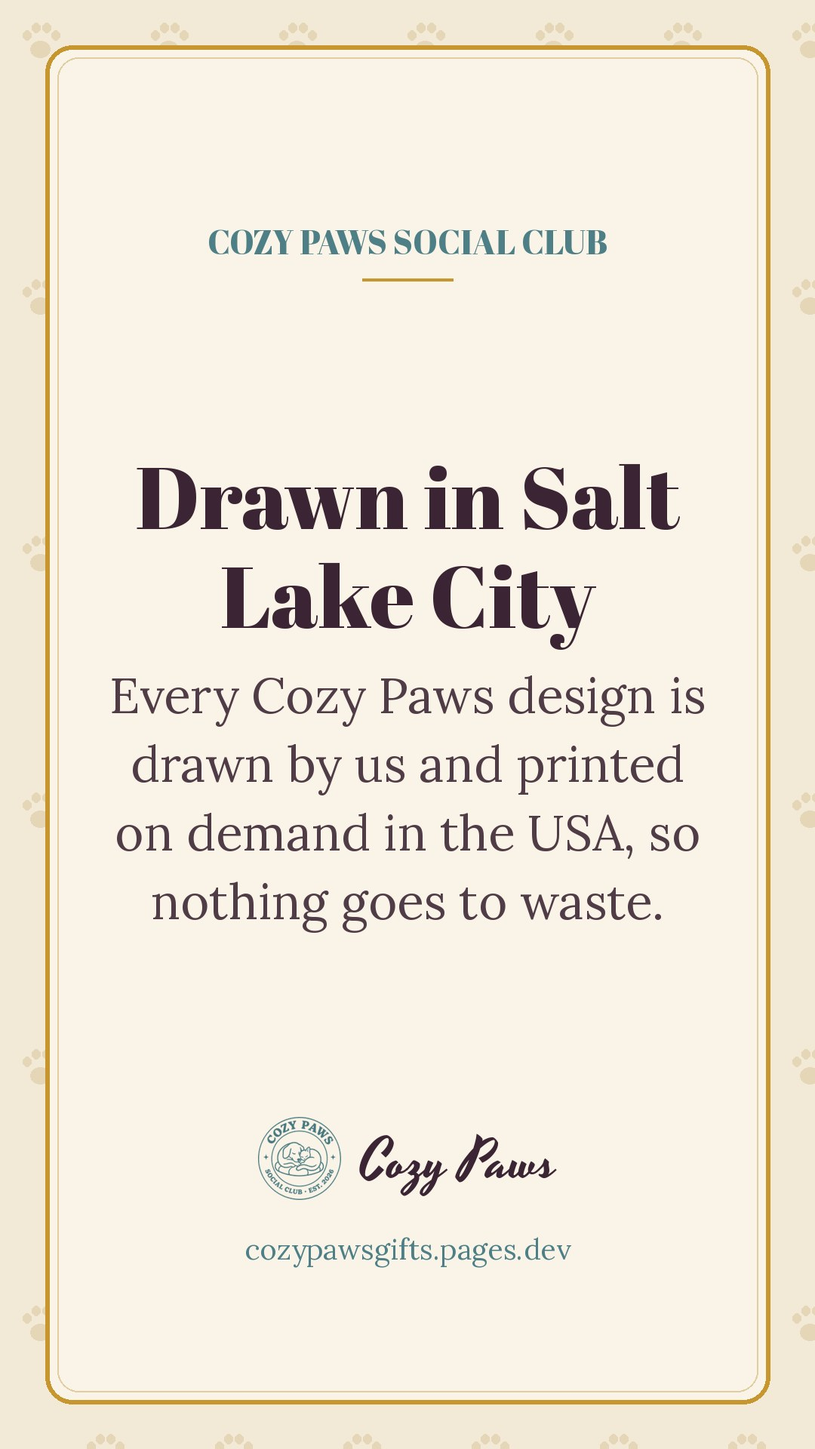
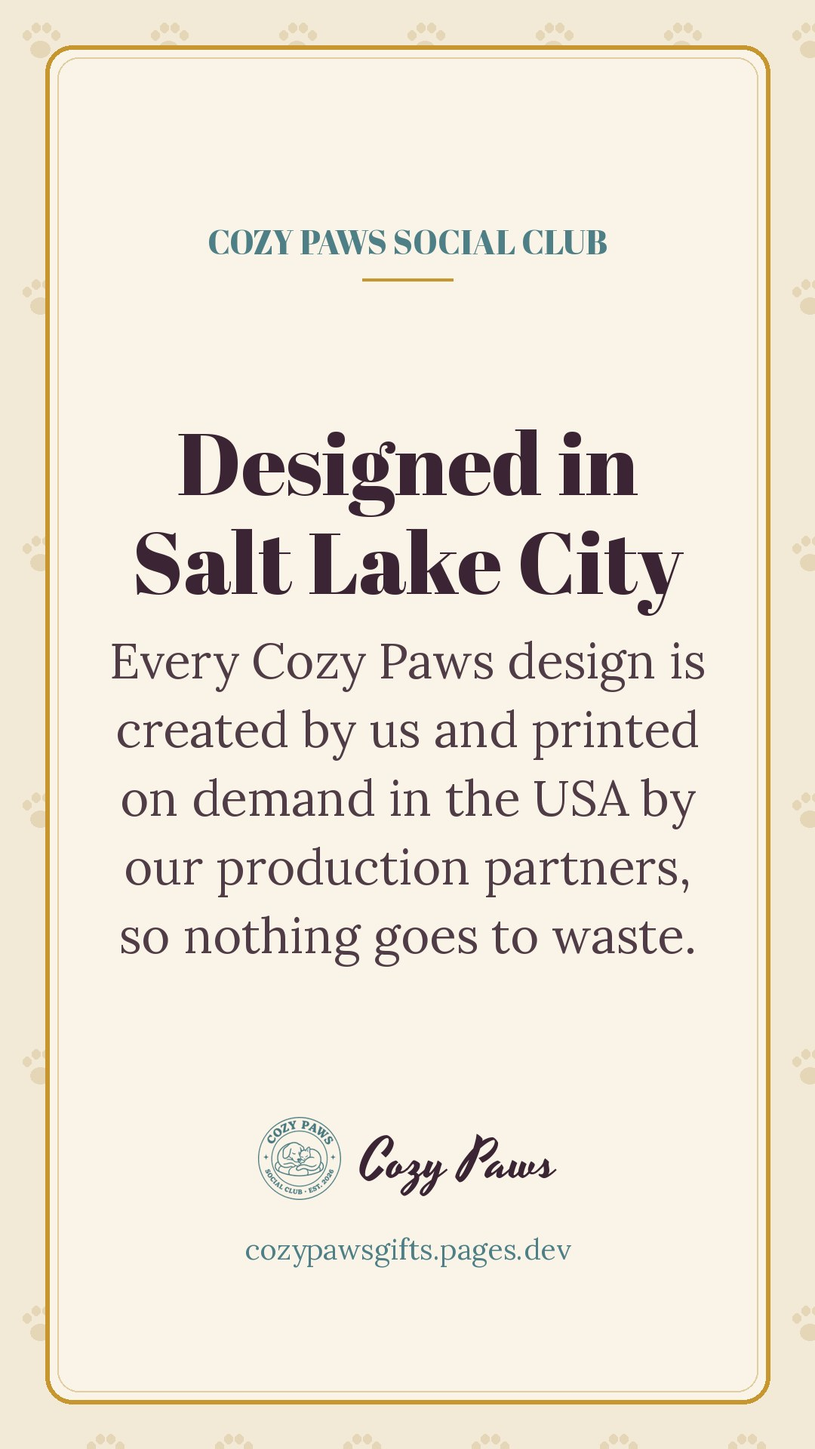
Cozy Paws: textos honestos (diseñado en Salt Lake City, impreso a pedido por socios de producción), sin 'drawn/by hand'
Claude-Session: https://claude.ai/code/session_016faVtCoSW77doGsyJeg2V5

Changed region(s): [[0.1222, 0.2812, 0.8556, 0.6875]]

diff --git a/cozypaws/site/index.html b/cozypaws/site/index.html
@@ -75,7 +75,7 @@ document.addEventListener('click',function(e){var a=e.target.closest&&e.target.c
 <div class="bar">✦ Order by Dec 10 for Christmas delivery in the US (26 days left) ✦</div>
 <header><div class="in"><a class="brand" href="/"><img src="/img/logo-160.png" alt="" width="58" height="58"><span>Cozy Paws</span></a>
 <nav><a href="/gifts/">Gift guides</a><a href="/tools/">Pet tools</a><a href="/about/">About</a><a class="shop" href="https://www.etsy.com/shop/ShopCozyPaws" data-etsy="shop">Shop on Etsy</a></nav></div></header>
-<main><section class="hero"><div><span class="script">Cozy Paws</span><p class="tag">Vintage club gifts for dogs, cats &amp; the people who love them</p><p>Mugs, ornaments, cozy sweatshirts, blankets and goodies for the pets themselves. Original designs drawn in Salt Lake City and printed on demand in the USA.</p><a class="btn" href="https://www.etsy.com/shop/ShopCozyPaws" data-etsy="hero">Shop on Etsy</a><a class="btn ghost" href="/gifts/">Gift guides</a></div><img src="/img/logo-ilustrado.png" alt="Cozy Paws Social Club logo: a sleeping dog and cat" width="340" height="340"></section><h2>New in the shop</h2><div class="grid"><a class="card" href="/p/cat-mom-mug-p09/"><img src="/img/p/p09.jpg" alt="Cat Mom Mug" loading="lazy" width="450" height="450"><div class="t">Cat Mom Mug</div><div class="m"><span>Coffee mug</span><span class="price">$20</span></div></a><a class="card" href="/p/labrador-dog-mom-mug-p04/"><img src="/img/p/p04.jpg" alt="Labrador Dog Mom Mug" loading="lazy" width="450" height="450"><div class="t">Labrador Dog Mom Mug</div><div class="m"><span>Coffee mug</span><span class="price">$20</span></div></a><a class="card" href="/p/golden-retriever-dog-mom-mug-p03/"><img src="/img/p/p03.jpg" alt="Golden Retriever Dog Mom Mug" loading="lazy" width="450" height="450"><div class="t">Golden Retriever Dog Mom Mug</div><div class="m"><span>Coffee mug</span><span class="price">$20</span></div></a><a class="card" href="/p/cat-mom-christmas-ornament-p02/"><img src="/img/p/p02.jpg" alt="Cat Mom Christmas Ornament" loading="lazy" width="450" height="450"><div class="t">Cat Mom Christmas Ornament</div><div class="m"><span>Ceramic ornament</span><span class="price">$18</span></div></a><a class="card" href="/p/dog-mom-christmas-ornament-2026-p01/"><img src="/img/p/p01.jpg" alt="Dog Mom Christmas Ornament 2026" loading="lazy" width="450" height="450"><div class="t">Dog Mom Christmas Ornament 2026</div><div class="m"><span>Ceramic ornament</span><span class="price">$18</span></div></a></div><h2>Sneak peek: dropping soon</h2><p>Five new gifts a day, starting November 15.</p><div class="grid"><div class="card"><img src="/img/p/p05.jpg" alt="Frenchie Dog Mom Mug" loading="lazy" width="450" height="450"><span class="badge">Nov 15</span><div class="t">Frenchie Dog Mom Mug</div><div class="m"><span>Coffee mug</span><span class="price">$20</span></div></div><div class="card"><img src="/img/p/p06.jpg" alt="German Shepherd Dog Mom Mug" loading="lazy" width="450" height="450"><span class="badge">Nov 15</span><div class="t">German Shepherd Dog Mom Mug</div><div class="m"><span>Coffee mug</span><span class="price">$20</span></div></div><div class="card"><img src="/img/p/p11.jpg" alt="Merry Woofmas Sweatshirt" loading="lazy" width="450" height="450"><span class="badge">Nov 15</span><div class="t">Merry Woofmas Sweatshirt</div><div class="m"><span>Sweatshirt</span><span class="price">$42</span></div></div><div class="card"><img src="/img/p/p12.jpg" alt="Nice List Dog Bandana" loading="lazy" width="450" height="450"><span class="badge">Nov 15</span><div class="t">Nice List Dog Bandana</div><div class="m"><span>Dog bandana</span><span class="price">$18</span></div></div><div class="card"><img src="/img/p/p13.jpg" alt="Santa&#x27;s Favorite Good Boy Dog Hoodie" loading="lazy" width="450" height="450"><span class="badge">Nov 15</span><div class="t">Santa&#x27;s Favorite Good Boy Dog Hoodie</div><div class="m"><span>Dog sweater</span><span class="price">$32</span></div></div><div class="card"><img src="/img/p/i06.jpg" alt="Christmas Pets Coloring Pages" loading="lazy" width="450" height="450"><span class="badge">Nov 16</span><div class="t">Christmas Pets Coloring Pages</div><div class="m"><span>Printable (instant download)</span><span class="price">$4.99</span></div></div><div class="card"><img src="/img/p/o01.jpg" alt="Puppy&#x27;s First Christmas Ornament 2026" loading="lazy" width="450" height="450"><span class="badge">Nov 16</span><div class="t">Puppy&#x27;s First Christmas Ornament 2026</div><div class="m"><span>Wooden ornament</span><span class="price">$18</span></div></div><div class="card"><img src="/img/p/p07.jpg" alt="Dachshund Dog Mom Mug" loading="lazy" width="450" height="450"><span class="badge">Nov 16</span><div class="t">Dachshund Dog Mom Mug</div><div class="m"><span>Coffee mug</span><span class="price">$20</span></div></div></div><h2>Gift guides</h2><div class="stamps"><a class="stamp" href="/gifts/dog-mom-gifts/"><img src="/img/p/p04.jpg" alt="" loading="lazy" width="78" height="78"><span><b>Gifts for Dog Moms</b><small>3 gift ideas</small></span></a></div><h2>Free pet tools</h2><div class="tools"><a class="tool" href="/tools/dog-age-calculator/"><b>Dog Age Calculator</b><span>Convert your dog&#x27;s age to human years by size, with the classic vet chart and the newer DNA-based formula.</span></a></div><section class="maker"><img src="/img/logo-ilustrado.png" alt="Azu, the maker behind Cozy Paws" loading="lazy" width="200" height="200"><div><span class="script" style="font-size:44px">Meet the maker</span><p>Hi, I'm Azu. I design every Cozy Paws gift in Salt Lake City, surrounded by mountains, trail dogs and very spoiled couch potatoes. This is a one-person shop: each gift is made to order and I answer every message myself.</p><p><a href="/about/">Read our story →</a></p></div></section><section class="club"><img src="/img/sello-claro.png" alt="" width="150" height="150" loading="lazy"><div><span class="script">Join the club</span><p>Every design is made for people who let the dog on the couch and the cat on the keyboard. New gifts drop all season long.</p><p style="margin-top:14px"><a class="btn" style="background:var(--gold);box-shadow:0 4px 0 #8f6a1f" href="https://www.etsy.com/shop/ShopCozyPaws" data-etsy="club">Visit the shop</a></p></div></section></main>
+<main><section class="hero"><div><span class="script">Cozy Paws</span><p class="tag">Vintage club gifts for dogs, cats &amp; the people who love them</p><p>Mugs, ornaments, cozy sweatshirts, blankets and goodies for the pets themselves. Original designs from Salt Lake City, printed on demand in the USA by our production partners.</p><a class="btn" href="https://www.etsy.com/shop/ShopCozyPaws" data-etsy="hero">Shop on Etsy</a><a class="btn ghost" href="/gifts/">Gift guides</a></div><img src="/img/logo-ilustrado.png" alt="Cozy Paws Social Club logo: a sleeping dog and cat" width="340" height="340"></section><h2>New in the shop</h2><div class="grid"><a class="card" href="/p/cat-mom-mug-p09/"><img src="/img/p/p09.jpg" alt="Cat Mom Mug" loading="lazy" width="450" height="450"><div class="t">Cat Mom Mug</div><div class="m"><span>Coffee mug</span><span class="price">$20</span></div></a><a class="card" href="/p/labrador-dog-mom-mug-p04/"><img src="/img/p/p04.jpg" alt="Labrador Dog Mom Mug" loading="lazy" width="450" height="450"><div class="t">Labrador Dog Mom Mug</div><div class="m"><span>Coffee mug</span><span class="price">$20</span></div></a><a class="card" href="/p/golden-retriever-dog-mom-mug-p03/"><img src="/img/p/p03.jpg" alt="Golden Retriever Dog Mom Mug" loading="lazy" width="450" height="450"><div class="t">Golden Retriever Dog Mom Mug</div><div class="m"><span>Coffee mug</span><span class="price">$20</span></div></a><a class="card" href="/p/cat-mom-christmas-ornament-p02/"><img src="/img/p/p02.jpg" alt="Cat Mom Christmas Ornament" loading="lazy" width="450" height="450"><div class="t">Cat Mom Christmas Ornament</div><div class="m"><span>Ceramic ornament</span><span class="price">$18</span></div></a><a class="card" href="/p/dog-mom-christmas-ornament-2026-p01/"><img src="/img/p/p01.jpg" alt="Dog Mom Christmas Ornament 2026" loading="lazy" width="450" height="450"><div class="t">Dog Mom Christmas Ornament 2026</div><div class="m"><span>Ceramic ornament</span><span class="price">$18</span></div></a></div><h2>Sneak peek: dropping soon</h2><p>Five new gifts a day, starting November 15.</p><div class="grid"><div class="card"><img src="/img/p/p05.jpg" alt="Frenchie Dog Mom Mug" loading="lazy" width="450" height="450"><span class="badge">Nov 15</span><div class="t">Frenchie Dog Mom Mug</div><div class="m"><span>Coffee mug</span><span class="price">$20</span></div></div><div class="card"><img src="/img/p/p06.jpg" alt="German Shepherd Dog Mom Mug" loading="lazy" width="450" height="450"><span class="badge">Nov 15</span><div class="t">German Shepherd Dog Mom Mug</div><div class="m"><span>Coffee mug</span><span class="price">$20</span></div></div><div class="card"><img src="/img/p/p11.jpg" alt="Merry Woofmas Sweatshirt" loading="lazy" width="450" height="450"><span class="badge">Nov 15</span><div class="t">Merry Woofmas Sweatshirt</div><div class="m"><span>Sweatshirt</span><span class="price">$42</span></div></div><div class="card"><img src="/img/p/p12.jpg" alt="Nice List Dog Bandana" loading="lazy" width="450" height="450"><span class="badge">Nov 15</span><div class="t">Nice List Dog Bandana</div><div class="m"><span>Dog bandana</span><span class="price">$18</span></div></div><div class="card"><img src="/img/p/p13.jpg" alt="Santa&#x27;s Favorite Good Boy Dog Hoodie" loading="lazy" width="450" height="450"><span class="badge">Nov 15</span><div class="t">Santa&#x27;s Favorite Good Boy Dog Hoodie</div><div class="m"><span>Dog sweater</span><span class="price">$32</span></div></div><div class="card"><img src="/img/p/i06.jpg" alt="Christmas Pets Coloring Pages" loading="lazy" width="450" height="450"><span class="badge">Nov 16</span><div class="t">Christmas Pets Coloring Pages</div><div class="m"><span>Printable (instant download)</span><span class="price">$4.99</span></div></div><div class="card"><img src="/img/p/o01.jpg" alt="Puppy&#x27;s First Christmas Ornament 2026" loading="lazy" width="450" height="450"><span class="badge">Nov 16</span><div class="t">Puppy&#x27;s First Christmas Ornament 2026</div><div class="m"><span>Wooden ornament</span><span class="price">$18</span></div></div><div class="card"><img src="/img/p/p07.jpg" alt="Dachshund Dog Mom Mug" loading="lazy" width="450" height="450"><span class="badge">Nov 16</span><div class="t">Dachshund Dog Mom Mug</div><div class="m"><span>Coffee mug</span><span class="price">$20</span></div></div></div><h2>Gift guides</h2><div class="stamps"><a class="stamp" href="/gifts/dog-mom-gifts/"><img src="/img/p/p04.jpg" alt="" loading="lazy" width="78" height="78"><span><b>Gifts for Dog Moms</b><small>3 gift ideas</small></span></a></div><h2>Free pet tools</h2><div class="tools"><a class="tool" href="/tools/dog-age-calculator/"><b>Dog Age Calculator</b><span>Convert your dog&#x27;s age to human years by size, with the classic vet chart and the newer DNA-based formula.</span></a></div><section class="maker"><img src="/img/logo-ilustrado.png" alt="Azu, the maker behind Cozy Paws" loading="lazy" width="200" height="200"><div><span class="script" style="font-size:44px">Meet the maker</span><p>Hi, I'm Azu. I design every Cozy Paws gift in Salt Lake City, surrounded by mountains, trail dogs and very spoiled couch potatoes. This is a one-person shop: each gift is made to order and I answer every message myself.</p><p><a href="/about/">Read our story →</a></p></div></section><section class="club"><img src="/img/sello-claro.png" alt="" width="150" height="150" loading="lazy"><div><span class="script">Join the club</span><p>Every design is made for people who let the dog on the couch and the cat on the keyboard. New gifts drop all season long.</p><p style="margin-top:14px"><a class="btn" style="background:var(--gold);box-shadow:0 4px 0 #8f6a1f" href="https://www.etsy.com/shop/ShopCozyPaws" data-etsy="club">Visit the shop</a></p></div></section></main>
 <footer><div class="in"><div class="fb"><img src="/img/sello-claro.png" alt="" width="64" height="64" loading="lazy"><div><span class="script">Cozy Paws</span><br>Vintage club gifts for dogs, cats &amp; the people who love them. Designed in Salt Lake City, Utah.</div></div>
 <div class="links"><a href="https://www.etsy.com/shop/ShopCozyPaws" data-etsy="footer">Etsy shop</a><a href="https://www.pinterest.com/cozypawsgifts/" rel="me">Pinterest</a><a href="https://www.instagram.com/cozypawsgifts/" rel="me">Instagram</a><a href="https://www.facebook.com/profile.php?id=61596427566616" rel="me">Facebook</a><br>
 <a href="/about/">About</a><a href="/shipping-returns/">Shipping &amp; returns</a><a href="/faq/">FAQ</a><a href="/contact/">Contact</a><a href="/privacy/">Privacy</a><a href="/terms/">Terms</a><br><small>© 2026 Cozy Paws</small></div></div></footer>

diff --git a/cozypaws/site/gifts/christmas-gift-guide-dog-owners/index.html b/cozypaws/site/gifts/christmas-gift-guide-dog-owners/index.html
@@ -75,7 +75,7 @@ document.addEventListener('click',function(e){var a=e.target.closest&&e.target.c
 <div class="bar">✦ Order by Dec 10 for Christmas delivery in the US (26 days left) ✦</div>
 <header><div class="in"><a class="brand" href="/"><img src="/img/logo-160.png" alt="" width="58" height="58"><span>Cozy Paws</span></a>
 <nav><a href="/gifts/">Gift guides</a><a href="/tools/">Pet tools</a><a href="/about/">About</a><a class="shop" href="https://www.etsy.com/shop/ShopCozyPaws" data-etsy="shop">Shop on Etsy</a></nav></div></header>
-<main><p class="note"><a href="/">Home</a> › <a href="/gifts/">Gift guides</a> › Christmas gift guide for dog owners</p><h1>Christmas Gift Guide for Dog Owners (2026)</h1><p class="lead">Shopping for someone whose dog gets their own stocking? This guide sorts our holiday gifts by the kind of dog person you are shopping for: the proud dog mom, the outdoorsy dog dad, the brand new puppy parent, the breed superfan and the friend who just said goodbye to a good dog. Every design is original, drawn in Salt Lake City and printed on demand in the USA, and new gifts are added every day until Christmas.</p><div class="ship"><b>Shipping:</b> order physical gifts by December 10 for Christmas delivery in the US (26 days left). Printables download instantly, even on Christmas Eve.</div><nav class="toc" aria-label="Jump to"><b>Jump to:</b><br><a href="#dog-mom">For the dog mom</a><a href="#breeds">By breed</a><a href="#stocking">Stocking stuffers under $20</a><a href="#faq">Questions</a></nav><h2 id="dog-mom">For the dog mom</h2><p>She talks about her dog the way other people talk about their kids. Mugs for the first coffee of the day, a dated ornament, a soft sweatshirt for the 6 AM walk and a blanket for the couch the dog took over.</p><div class="grid"><a class="card" href="/p/labrador-dog-mom-mug-p04/"><img src="/img/p/p04.jpg" alt="Labrador Dog Mom Mug" loading="lazy" width="450" height="450"><div class="t">Labrador Dog Mom Mug</div><div class="m"><span>Coffee mug</span><span class="price">$20</span></div></a><a class="card" href="/p/golden-retriever-dog-mom-mug-p03/"><img src="/img/p/p03.jpg" alt="Golden Retriever Dog Mom Mug" loading="lazy" width="450" height="450"><div class="t">Golden Retriever Dog Mom Mug</div><div class="m"><span>Coffee mug</span><span class="price">$20</span></div></a><a class="card" href="/p/dog-mom-christmas-ornament-2026-p01/"><img src="/img/p/p01.jpg" alt="Dog Mom Christmas Ornament 2026" loading="lazy" width="450" height="450"><div class="t">Dog Mom Christmas Ornament 2026</div><div class="m"><span>Ceramic ornament</span><span class="price">$18</span></div></a></div><p class="more pills"><a href="/gifts/dog-mom-gifts/">See all: Gifts for Dog Moms →</a></p><h2 id="breeds">By breed</h2><p>Breed people are a club of their own. Golden, Lab, Frenchie, German Shepherd, Dachshund or Doodle: a gift with their breed on it says you pay attention.</p><div class="grid"><a class="card" href="/p/labrador-dog-mom-mug-p04/"><img src="/img/p/p04.jpg" alt="Labrador Dog Mom Mug" loading="lazy" width="450" height="450"><div class="t">Labrador Dog Mom Mug</div><div class="m"><span>Coffee mug</span><span class="price">$20</span></div></a><a class="card" href="/p/golden-retriever-dog-mom-mug-p03/"><img src="/img/p/p03.jpg" alt="Golden Retriever Dog Mom Mug" loading="lazy" width="450" height="450"><div class="t">Golden Retriever Dog Mom Mug</div><div class="m"><span>Coffee mug</span><span class="price">$20</span></div></a></div><h2 id="stocking">Stocking stuffers under $20</h2><p>Small gifts with big dog energy: ornaments, socks, stickers, cards and gift tags.</p><div class="grid"><a class="card" href="/p/labrador-dog-mom-mug-p04/"><img src="/img/p/p04.jpg" alt="Labrador Dog Mom Mug" loading="lazy" width="450" height="450"><div class="t">Labrador Dog Mom Mug</div><div class="m"><span>Coffee mug</span><span class="price">$20</span></div></a><a class="card" href="/p/golden-retriever-dog-mom-mug-p03/"><img src="/img/p/p03.jpg" alt="Golden Retriever Dog Mom Mug" loading="lazy" width="450" height="450"><div class="t">Golden Retriever Dog Mom Mug</div><div class="m"><span>Coffee mug</span><span class="price">$20</span></div></a><a class="card" href="/p/dog-mom-christmas-ornament-2026-p01/"><img src="/img/p/p01.jpg" alt="Dog Mom Christmas Ornament 2026" loading="lazy" width="450" height="450"><div class="t">Dog Mom Christmas Ornament 2026</div><div class="m"><span>Ceramic ornament</span><span class="price">$18</span></div></a></div><p style="margin-top:34px"><a class="btn" href="https://www.etsy.com/shop/ShopCozyPaws" data-etsy="hub">See every gift on Etsy</a></p><h2 id="faq">Questions dog people ask</h2><div class="faq"><details><summary>What is a good Christmas gift for a dog owner?</summary><p>Pick something tied to their dog: a mug or ornament with their breed, a sweatshirt that says dog mom or dog dad, or a gift for the dog itself like a holiday bandana or a pet blanket. Personal beats expensive.</p></details><details><summary>What do you get a dog mom who has everything?</summary><p>A dated keepsake ornament, a cozy plush blanket or a funny sweatshirt. They are things she would not buy for herself, and the ornament comes back every December.</p></details><details><summary>What is a good gift for someone with a new puppy?</summary><p>A Puppy&#x27;s First Christmas ornament with the year on it, plus something practical for the puppy like a bowl or a warm hoodie.</p></details><details><summary>What can I give a friend whose dog passed away?</summary><p>A memorial ornament is a gentle, lasting gift. Add a short handwritten note with a memory of their dog.</p></details><details><summary>When should I order to get it before Christmas?</summary><p>Physical gifts are printed on demand in the USA: order by December 10 for Christmas delivery in the US. Printables download instantly, so they work up to Christmas Eve.</p></details><details><summary>Where do I buy these gifts?</summary><p>Every gift is sold in the Cozy Paws shop on Etsy, with Etsy&#x27;s secure checkout and purchase protection. The links on this page take you straight to each listing.</p></details></div><h2>More gift guides</h2><div class="pills"><a href="/gifts/dog-mom-gifts/">Gifts for Dog Moms</a></div></main>
+<main><p class="note"><a href="/">Home</a> › <a href="/gifts/">Gift guides</a> › Christmas gift guide for dog owners</p><h1>Christmas Gift Guide for Dog Owners (2026)</h1><p class="lead">Shopping for someone whose dog gets their own stocking? This guide sorts our holiday gifts by the kind of dog person you are shopping for: the proud dog mom, the outdoorsy dog dad, the brand new puppy parent, the breed superfan and the friend who just said goodbye to a good dog. Every design is original, designed in Salt Lake City and printed on demand in the USA by our production partners, and new gifts are added every day until Christmas.</p><div class="ship"><b>Shipping:</b> order physical gifts by December 10 for Christmas delivery in the US (26 days left). Printables download instantly, even on Christmas Eve.</div><nav class="toc" aria-label="Jump to"><b>Jump to:</b><br><a href="#dog-mom">For the dog mom</a><a href="#breeds">By breed</a><a href="#stocking">Stocking stuffers under $20</a><a href="#faq">Questions</a></nav><h2 id="dog-mom">For the dog mom</h2><p>She talks about her dog the way other people talk about their kids. Mugs for the first coffee of the day, a dated ornament, a soft sweatshirt for the 6 AM walk and a blanket for the couch the dog took over.</p><div class="grid"><a class="card" href="/p/labrador-dog-mom-mug-p04/"><img src="/img/p/p04.jpg" alt="Labrador Dog Mom Mug" loading="lazy" width="450" height="450"><div class="t">Labrador Dog Mom Mug</div><div class="m"><span>Coffee mug</span><span class="price">$20</span></div></a><a class="card" href="/p/golden-retriever-dog-mom-mug-p03/"><img src="/img/p/p03.jpg" alt="Golden Retriever Dog Mom Mug" loading="lazy" width="450" height="450"><div class="t">Golden Retriever Dog Mom Mug</div><div class="m"><span>Coffee mug</span><span class="price">$20</span></div></a><a class="card" href="/p/dog-mom-christmas-ornament-2026-p01/"><img src="/img/p/p01.jpg" alt="Dog Mom Christmas Ornament 2026" loading="lazy" width="450" height="450"><div class="t">Dog Mom Christmas Ornament 2026</div><div class="m"><span>Ceramic ornament</span><span class="price">$18</span></div></a></div><p class="more pills"><a href="/gifts/dog-mom-gifts/">See all: Gifts for Dog Moms →</a></p><h2 id="breeds">By breed</h2><p>Breed people are a club of their own. Golden, Lab, Frenchie, German Shepherd, Dachshund or Doodle: a gift with their breed on it says you pay attention.</p><div class="grid"><a class="card" href="/p/labrador-dog-mom-mug-p04/"><img src="/img/p/p04.jpg" alt="Labrador Dog Mom Mug" loading="lazy" width="450" height="450"><div class="t">Labrador Dog Mom Mug</div><div class="m"><span>Coffee mug</span><span class="price">$20</span></div></a><a class="card" href="/p/golden-retriever-dog-mom-mug-p03/"><img src="/img/p/p03.jpg" alt="Golden Retriever Dog Mom Mug" loading="lazy" width="450" height="450"><div class="t">Golden Retriever Dog Mom Mug</div><div class="m"><span>Coffee mug</span><span class="price">$20</span></div></a></div><h2 id="stocking">Stocking stuffers under $20</h2><p>Small gifts with big dog energy: ornaments, socks, stickers, cards and gift tags.</p><div class="grid"><a class="card" href="/p/labrador-dog-mom-mug-p04/"><img src="/img/p/p04.jpg" alt="Labrador Dog Mom Mug" loading="lazy" width="450" height="450"><div class="t">Labrador Dog Mom Mug</div><div class="m"><span>Coffee mug</span><span class="price">$20</span></div></a><a class="card" href="/p/golden-retriever-dog-mom-mug-p03/"><img src="/img/p/p03.jpg" alt="Golden Retriever Dog Mom Mug" loading="lazy" width="450" height="450"><div class="t">Golden Retriever Dog Mom Mug</div><div class="m"><span>Coffee mug</span><span class="price">$20</span></div></a><a class="card" href="/p/dog-mom-christmas-ornament-2026-p01/"><img src="/img/p/p01.jpg" alt="Dog Mom Christmas Ornament 2026" loading="lazy" width="450" height="450"><div class="t">Dog Mom Christmas Ornament 2026</div><div class="m"><span>Ceramic ornament</span><span class="price">$18</span></div></a></div><p style="margin-top:34px"><a class="btn" href="https://www.etsy.com/shop/ShopCozyPaws" data-etsy="hub">See every gift on Etsy</a></p><h2 id="faq">Questions dog people ask</h2><div class="faq"><details><summary>What is a good Christmas gift for a dog owner?</summary><p>Pick something tied to their dog: a mug or ornament with their breed, a sweatshirt that says dog mom or dog dad, or a gift for the dog itself like a holiday bandana or a pet blanket. Personal beats expensive.</p></details><details><summary>What do you get a dog mom who has everything?</summary><p>A dated keepsake ornament, a cozy plush blanket or a funny sweatshirt. They are things she would not buy for herself, and the ornament comes back every December.</p></details><details><summary>What is a good gift for someone with a new puppy?</summary><p>A Puppy&#x27;s First Christmas ornament with the year on it, plus something practical for the puppy like a bowl or a warm hoodie.</p></details><details><summary>What can I give a friend whose dog passed away?</summary><p>A memorial ornament is a gentle, lasting gift. Add a short handwritten note with a memory of their dog.</p></details><details><summary>When should I order to get it before Christmas?</summary><p>Physical gifts are printed on demand in the USA: order by December 10 for Christmas delivery in the US. Printables download instantly, so they work up to Christmas Eve.</p></details><details><summary>Where do I buy these gifts?</summary><p>Every gift is sold in the Cozy Paws shop on Etsy, with Etsy&#x27;s secure checkout and purchase protection. The links on this page take you straight to each listing.</p></details></div><h2>More gift guides</h2><div class="pills"><a href="/gifts/dog-mom-gifts/">Gifts for Dog Moms</a></div></main>
 <footer><div class="in"><div class="fb"><img src="/img/sello-claro.png" alt="" width="64" height="64" loading="lazy"><div><span class="script">Cozy Paws</span><br>Vintage club gifts for dogs, cats &amp; the people who love them. Designed in Salt Lake City, Utah.</div></div>
 <div class="links"><a href="https://www.etsy.com/shop/ShopCozyPaws" data-etsy="footer">Etsy shop</a><a href="https://www.pinterest.com/cozypawsgifts/" rel="me">Pinterest</a><a href="https://www.instagram.com/cozypawsgifts/" rel="me">Instagram</a><a href="https://www.facebook.com/profile.php?id=61596427566616" rel="me">Facebook</a><br>
 <a href="/about/">About</a><a href="/shipping-returns/">Shipping &amp; returns</a><a href="/faq/">FAQ</a><a href="/contact/">Contact</a><a href="/privacy/">Privacy</a><a href="/terms/">Terms</a><br><small>© 2026 Cozy Paws</small></div></div></footer>

diff --git a/cozypaws/site/about/index.html b/cozypaws/site/about/index.html
@@ -75,7 +75,7 @@ document.addEventListener('click',function(e){var a=e.target.closest&&e.target.c
 <div class="bar">✦ Order by Dec 10 for Christmas delivery in the US (26 days left) ✦</div>
 <header><div class="in"><a class="brand" href="/"><img src="/img/logo-160.png" alt="" width="58" height="58"><span>Cozy Paws</span></a>
 <nav><a href="/gifts/">Gift guides</a><a href="/tools/">Pet tools</a><a href="/about/">About</a><a class="shop" href="https://www.etsy.com/shop/ShopCozyPaws" data-etsy="shop">Shop on Etsy</a></nav></div></header>
-<main><p class="note"><a href="/">Home</a> › About</p><div class="about"><div><h1>Hi, I'm Azu</h1><p class="lead">I started Cozy Paws for people like me: the ones who plan weekends around the dog, take more photos of the cat than of themselves, and think a pet is family, full stop.</p><p>I live in Salt Lake City, Utah, where the mountains are ten minutes away and every trailhead is full of happy dogs. Cozy Paws mixes two things I love: the charm of old social clubs and vintage naturalist guides, and the very real, very silly life we share with our pets. That is where designs like the Dog Mom Club and Merry Woofmas come from.</p><p>Every design is made for this shop and printed on demand in the USA, so nothing is mass produced and nothing goes to waste. I pick every product, check every mockup and answer every message myself.</p><p><a class="btn" href="https://www.etsy.com/shop/ShopCozyPaws" data-etsy="about">Visit the shop</a><a class="btn ghost" href="/contact/">Say hi</a></p></div><div class="ph"><img src="/img/logo-ilustrado.png" alt="Azu, the maker behind Cozy Paws" width="520" height="520"></div></div><h2>What we care about</h2><div class="vals"><div><b>Original designs</b>Every design is created for Cozy Paws and checked by hand. Nothing is copied from other shops.</div><div><b>Made to order</b>Nothing sits in a warehouse. Each piece is printed when you order it, which means less waste.</div><div><b>Printed in the USA</b>Our production partners print and ship from the US, so gifts arrive in days, not weeks.</div><div><b>A real person</b>Cozy Paws is a one-person shop. When you write to us, the maker answers.</div></div><h2>New in the shop</h2><div class="grid"><a class="card" href="/p/cat-mom-mug-p09/"><img src="/img/p/p09.jpg" alt="Cat Mom Mug" loading="lazy" width="450" height="450"><div class="t">Cat Mom Mug</div><div class="m"><span>Coffee mug</span><span class="price">$20</span></div></a><a class="card" href="/p/labrador-dog-mom-mug-p04/"><img src="/img/p/p04.jpg" alt="Labrador Dog Mom Mug" loading="lazy" width="450" height="450"><div class="t">Labrador Dog Mom Mug</div><div class="m"><span>Coffee mug</span><span class="price">$20</span></div></a><a class="card" href="/p/golden-retriever-dog-mom-mug-p03/"><img src="/img/p/p03.jpg" alt="Golden Retriever Dog Mom Mug" loading="lazy" width="450" height="450"><div class="t">Golden Retriever Dog Mom Mug</div><div class="m"><span>Coffee mug</span><span class="price">$20</span></div></a><a class="card" href="/p/cat-mom-christmas-ornament-p02/"><img src="/img/p/p02.jpg" alt="Cat Mom Christmas Ornament" loading="lazy" width="450" height="450"><div class="t">Cat Mom Christmas Ornament</div><div class="m"><span>Ceramic ornament</span><span class="price">$18</span></div></a></div><p class="note" style="margin-top:30px">Cozy Paws is a brand of Skye Solutions AI, a sole proprietorship based in Salt Lake City, Utah.</p></main>
+<main><p class="note"><a href="/">Home</a> › About</p><div class="about"><div><h1>Hi, I'm Azu</h1><p class="lead">I started Cozy Paws for people like me: the ones who plan weekends around the dog, take more photos of the cat than of themselves, and think a pet is family, full stop.</p><p>I live in Salt Lake City, Utah, where the mountains are ten minutes away and every trailhead is full of happy dogs. Cozy Paws mixes two things I love: the charm of old social clubs and vintage naturalist guides, and the very real, very silly life we share with our pets. That is where designs like the Dog Mom Club and Merry Woofmas come from.</p><p>Every design is made for this shop and printed on demand in the USA, so nothing is mass produced and nothing goes to waste. I pick every product, check every mockup and answer every message myself.</p><p><a class="btn" href="https://www.etsy.com/shop/ShopCozyPaws" data-etsy="about">Visit the shop</a><a class="btn ghost" href="/contact/">Say hi</a></p></div><div class="ph"><img src="/img/logo-ilustrado.png" alt="Azu, the maker behind Cozy Paws" width="520" height="520"></div></div><h2>What we care about</h2><div class="vals"><div><b>Original designs</b>Every design is created for Cozy Paws by the maker. Nothing is copied from other shops.</div><div><b>Made to order</b>Nothing sits in a warehouse. Each piece is printed when you order it, which means less waste.</div><div><b>Printed in the USA</b>Our production partners print and ship from the US, so gifts arrive in days, not weeks.</div><div><b>A real person</b>Cozy Paws is a one-person shop. When you write to us, the maker answers.</div></div><h2>New in the shop</h2><div class="grid"><a class="card" href="/p/cat-mom-mug-p09/"><img src="/img/p/p09.jpg" alt="Cat Mom Mug" loading="lazy" width="450" height="450"><div class="t">Cat Mom Mug</div><div class="m"><span>Coffee mug</span><span class="price">$20</span></div></a><a class="card" href="/p/labrador-dog-mom-mug-p04/"><img src="/img/p/p04.jpg" alt="Labrador Dog Mom Mug" loading="lazy" width="450" height="450"><div class="t">Labrador Dog Mom Mug</div><div class="m"><span>Coffee mug</span><span class="price">$20</span></div></a><a class="card" href="/p/golden-retriever-dog-mom-mug-p03/"><img src="/img/p/p03.jpg" alt="Golden Retriever Dog Mom Mug" loading="lazy" width="450" height="450"><div class="t">Golden Retriever Dog Mom Mug</div><div class="m"><span>Coffee mug</span><span class="price">$20</span></div></a><a class="card" href="/p/cat-mom-christmas-ornament-p02/"><img src="/img/p/p02.jpg" alt="Cat Mom Christmas Ornament" loading="lazy" width="450" height="450"><div class="t">Cat Mom Christmas Ornament</div><div class="m"><span>Ceramic ornament</span><span class="price">$18</span></div></a></div><p class="note" style="margin-top:30px">Cozy Paws is a brand of Skye Solutions AI, a sole proprietorship based in Salt Lake City, Utah.</p></main>
 <footer><div class="in"><div class="fb"><img src="/img/sello-claro.png" alt="" width="64" height="64" loading="lazy"><div><span class="script">Cozy Paws</span><br>Vintage club gifts for dogs, cats &amp; the people who love them. Designed in Salt Lake City, Utah.</div></div>
 <div class="links"><a href="https://www.etsy.com/shop/ShopCozyPaws" data-etsy="footer">Etsy shop</a><a href="https://www.pinterest.com/cozypawsgifts/" rel="me">Pinterest</a><a href="https://www.instagram.com/cozypawsgifts/" rel="me">Instagram</a><a href="https://www.facebook.com/profile.php?id=61596427566616" rel="me">Facebook</a><br>
 <a href="/about/">About</a><a href="/shipping-returns/">Shipping &amp; returns</a><a href="/faq/">FAQ</a><a href="/contact/">Contact</a><a href="/privacy/">Privacy</a><a href="/terms/">Terms</a><br><small>© 2026 Cozy Paws</small></div></div></footer>

diff --git a/cozypaws/build.py b/cozypaws/build.py
@@ -203,7 +203,7 @@ HUB = dict(
     h1='Christmas Gift Guide for Dog Owners',
     title='Christmas Gift Guide for Dog Owners {y}: Ideas by Owner and Breed',
     desc='The {y} Christmas gift guide for dog people: gifts for dog moms, dog dads, new puppy owners, breed lovers and the dog itself, from stocking stuffers to cozy blankets.',
-    intro="Shopping for someone whose dog gets their own stocking? This guide sorts our holiday gifts by the kind of dog person you are shopping for: the proud dog mom, the outdoorsy dog dad, the brand new puppy parent, the breed superfan and the friend who just said goodbye to a good dog. Every design is original, drawn in Salt Lake City and printed on demand in the USA, and new gifts are added every day until Christmas.",
+    intro="Shopping for someone whose dog gets their own stocking? This guide sorts our holiday gifts by the kind of dog person you are shopping for: the proud dog mom, the outdoorsy dog dad, the brand new puppy parent, the breed superfan and the friend who just said goodbye to a good dog. Every design is original, designed in Salt Lake City and printed on demand in the USA by our production partners, and new gifts are added every day until Christmas.",
     dog=r'\bdogs?\b|puppy|paw|woofmas|good boy|doodle|frenchie|golden retriever|labrador|dachshund|german shepherd',
     sections=[
         dict(id='dog-mom', h2='For the dog mom', match=r'dog mom|dog mama|fur mama', guide='dog-mom-gifts',
@@ -593,7 +593,7 @@ def trust_pages(today, prods):
     ph = author_photos()
     main_img = ph[0] if ph else '/img/logo-ilustrado.png'
     gal = (f'<h2>Life with dogs</h2><div class="gal">' + ''.join(f'<img src="{p}" alt="{E(CONFIG["maker"])} with a dog" loading="lazy" width="300" height="300">' for p in ph[1:]) + '</div>') if len(ph) > 1 else ''
-    vals = ('<div class="vals"><div><b>Original designs</b>Every design is created for Cozy Paws and checked by hand. Nothing is copied from other shops.</div>'
+    vals = ('<div class="vals"><div><b>Original designs</b>Every design is created for Cozy Paws by the maker. Nothing is copied from other shops.</div>'
             '<div><b>Made to order</b>Nothing sits in a warehouse. Each piece is printed when you order it, which means less waste.</div>'
             '<div><b>Printed in the USA</b>Our production partners print and ship from the US, so gifts arrive in days, not weeks.</div>'
             '<div><b>A real person</b>Cozy Paws is a one-person shop. When you write to us, the maker answers.</div></div>')
@@ -798,7 +798,7 @@ def build(today):
                  '<div class="grid">' + ''.join(card(p, soon=f'{p["live"].strftime("%b")} {p["live"].day}') for p in upcoming) + '</div>')
     body = ('<section class="hero"><div><span class="script">Cozy Paws</span>'
             '<p class="tag">Vintage club gifts for dogs, cats &amp; the people who love them</p>'
-            '<p>Mugs, ornaments, cozy sweatshirts, blankets and goodies for the pets themselves. Original designs drawn in Salt Lake City and printed on demand in the USA.</p>'
+            '<p>Mugs, ornaments, cozy sweatshirts, blankets and goodies for the pets themselves. Original designs from Salt Lake City, printed on demand in the USA by our production partners.</p>'
             f'<a class="btn" href="{CONFIG["shop"]}" data-etsy="hero">Shop on Etsy</a><a class="btn ghost" href="/gifts/">Gift guides</a></div>'
             '<img src="/img/logo-ilustrado.png" alt="Cozy Paws Social Club logo: a sleeping dog and cat" width="340" height="340"></section>'
             + shop

diff --git a/cozypaws/contenido.py b/cozypaws/contenido.py
@@ -27,7 +27,7 @@ BANCO = [
     dict(id='f-hogar', tipo='frase', texto='Home is wherever my dog is waiting at the door.',
          caption='Nothing beats that welcome. 🐾 Tag someone whose dog waits by the door.', tags='dog'),
     dict(id='c-bienvenida', tipo='club', titulo='Welcome to the Club', texto='The Cozy Paws Social Club is for people who plan their weekends around naps, walks and treats. Membership: one pet (or five).',
-         caption='Welcome to the Cozy Paws Social Club ☕🐾 Original designs for dog and cat people, drawn in Salt Lake City. Tell us your pet\'s name below so we can say hi!', tags='dog cat'),
+         caption='Welcome to the Cozy Paws Social Club ☕🐾 Original designs for dog and cat people, designed in Salt Lake City. Tell us your pet\'s name below so we can say hi!', tags='dog cat'),
     dict(id='t-chocolate', tipo='tip', titulo='Holiday treats to skip', texto='Chocolate, grapes, raisins, xylitol and onions are toxic for dogs. Keep the cookie plate up high.',
          caption='Holiday season = treats everywhere. Keep chocolate, grapes, raisins, onions and anything with xylitol out of reach. 🍫🚫 Save this for later!', tags='dog'),
     dict(id='f-gato-casa', tipo='frase', texto='My cat lets me live here. It\'s a good arrangement.',
@@ -60,8 +60,8 @@ BANCO = [
          caption='Every cat parent knows how this ends. 📦😹 What\'s your pet\'s favorite "toy" that isn\'t a toy?', tags='cat dog'),
     dict(id='f-paseo', tipo='frase', texto='The best conversations happen on long walks with your dog.',
          caption='Sunday walk energy. 🍂🐶', tags='dog'),
-    dict(id='c-hecho', tipo='club', titulo='Drawn in Salt Lake City', texto='Every Cozy Paws design is drawn by us and printed on demand in the USA, so nothing goes to waste.',
-         caption='A little about us: every Cozy Paws design is original, drawn in Salt Lake City and printed on demand in the USA. 🏔🐾 Thank you for supporting a small shop!', tags='dog cat'),
+    dict(id='c-hecho', tipo='club', titulo='Designed in Salt Lake City', texto='Every Cozy Paws design is created by us and printed on demand in the USA by our production partners, so nothing goes to waste.',
+         caption='A little about us: every Cozy Paws design is original, designed in Salt Lake City and printed on demand in the USA by our production partners. 🏔🐾 Thank you for supporting a small shop!', tags='dog cat'),
     dict(id='t-viejitos', tipo='tip', titulo='Senior pets in the cold', texto='Older pets feel the cold more. A thick bed off the floor and a sweater for short-haired dogs help a lot.',
          caption='Senior pets feel the cold in their joints. A raised, cozy bed and a sweater for short-haired pups make winter so much easier. 🧣', tags='dog cat'),
     dict(id='q-navidad', tipo='pregunta', texto='Does your pet get a Christmas gift?', sub='Of course they do',
